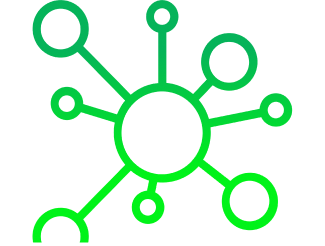
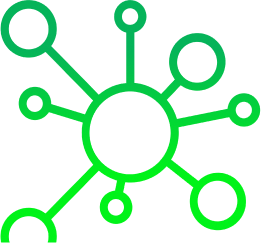
hero almost done

Changed region(s): [[0.0, 0.0, 1.0, 1.0]]

diff --git a/components/Hero.tsx b/components/Hero.tsx
@@ -6,15 +6,17 @@ import fancyObject from '../public/images/fancy_object.png'
 
 export default function Hero() {
   return (
-    <div className='container-fluid hero p-0 m-0'>
+    <div className='container-fluid hero'>
       <div className="row">
-        <div className="col">
+        <div className="col-lg-1">
         </div>
-        <div className="col">
-          <img src={logo.src} className="img-fluid" height="100%" />
+        <div className="col align-self-center">
+          <img src={logo.src} className="img-fluid p-3 float-start vw-75"/>
         </div>
-        <div className="col">
-          <img src={fancyObject.src} className="img-fluid" height="100%" />
+        <div className="col align-self-end">
+          <img src={fancyObject.src} className="img-fluid pr-2 pt-5 float-end"/>
+        </div>
+        <div className="col-lg-1">
         </div>
       </div>
     </div>

diff --git a/styles/customTheme.scss b/styles/customTheme.scss
@@ -3,7 +3,7 @@ $primary: #03D941;
 $secondary: white;
 
 .hero {
-    background: url('../public/images/hero.png');
+    background: linear-gradient(90deg, #12C989, #00F319);
 }
 
 @import "~bootstrap/scss/bootstrap";
